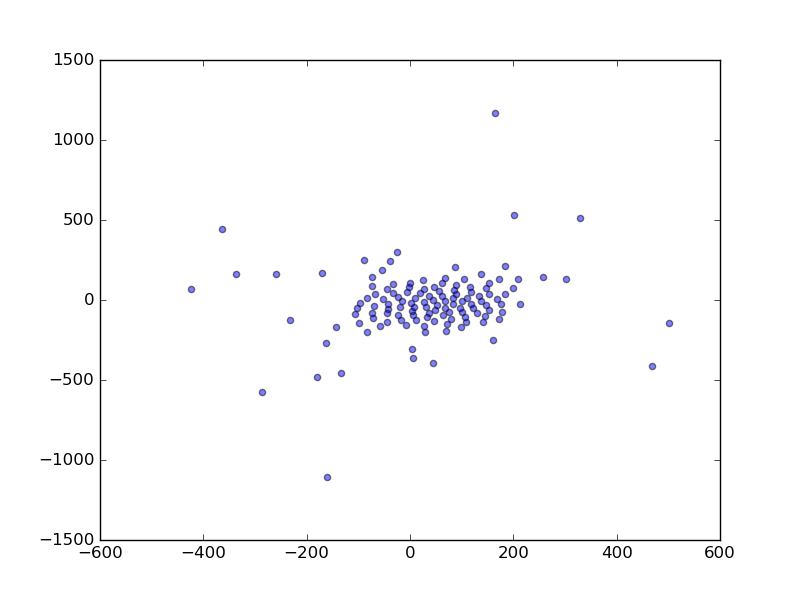
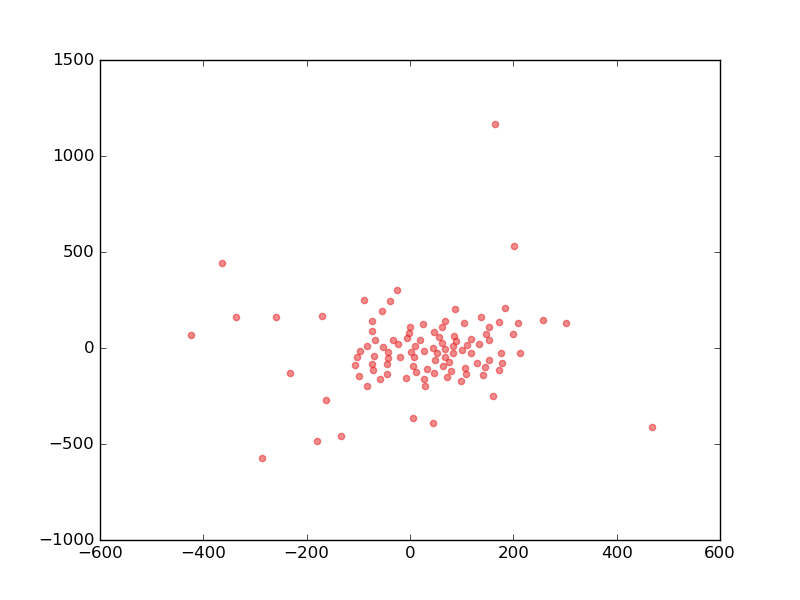
merg

diff --git a/practical_3/train_model.py b/practical_3/train_model.py
@@ -339,6 +339,9 @@ def feature_extraction():
                                                        Convnn.weight_reg_strength: FLAGS.reg_strength,
                                                        Convnn.dropout_rate: FLAGS.dropout_rate
                                                        })
+            flatten = tf.get_default_graph().get_tensor_by_name("ConvNet/l2norm:0").eval(feed)
+            fcl1 = tf.get_default_graph().get_tensor_by_name("ConvNet/l2norm:0").eval(feed)
+            fcl2 = tf.get_default_graph().get_tensor_by_name("ConvNet/l2norm:0").eval(feed)
 
             print("accuracy: %f"%acc)
             print("Calculating TSNE")
@@ -371,13 +374,20 @@ def feature_extraction():
             x2_test = dset_test[0][1]
             y_test = dset_test[0][2]
 
-            feed_dict = {x1: x1_test, x2: x2_test, y: y_test}
-            sess.run([optimizer], feed_dict=feed_dict)
-            # print([n.name for n in tf.get_default_graph().as_graph_def().node])
-            l2norm =  tf.get_default_graph().get_tensor_by_name("ConvNet/l2norm").eval()
-            print(l2norm)
-            #_tnse(flatten, y_test, "tsne_flatten")
+            feed = {x1: x1_test, x2:x2_test }
+            l2_norm = tf.get_default_graph().get_tensor_by_name("ConvNet/l2norm:0").eval(feed)
 
+
+            #_tnse(l2_norm, y_test, "tsne_siamese_l2norm")
+            tsne = TSNE(n_components=2, init='random', random_state=42)
+            # Calculate pca
+            tsne = tsne.fit_transform(l2_norm)
+
+            for i in range(1):
+                class_points = tsne[y_test == i]
+                plt.scatter(class_points[:, 0], class_points[:, 1], color=plt.cm.Set1(i * 125), alpha=0.5)
+
+            plt.savefig('images/tsne_siamese_l2norm')
     ########################
     # END OF YOUR CODE    #
     ########################
@@ -389,7 +399,7 @@ def _tnse(layer, labels, name):
         
     # Create tsne
     #tsne = TSNE(n_components=2, init='pca', random_state=42)
-    tsne = TSNE(n_components=2, random_state=42)
+    tsne = TSNE(n_components=2, init='random', random_state=42)
     # Calculate pca
     tsne = tsne.fit_transform(layer)
     # Get predictions

diff --git a/practical_3/siamese.py b/practical_3/siamese.py
@@ -182,7 +182,7 @@ class Siamese(object):
             bias = tf.get_variable(
                 shape=w_dims[-1],
                 initializer=bias_init,
-                name= 'fcl%i/' % n_layer+ "bias")
+                name= 'fcl%i/'% n_layer+ "bias")
 
             # Calculate input
             fcl_in = tf.nn.bias_add(tf.matmul(out_p, weights), bias, name=scope+"input")
